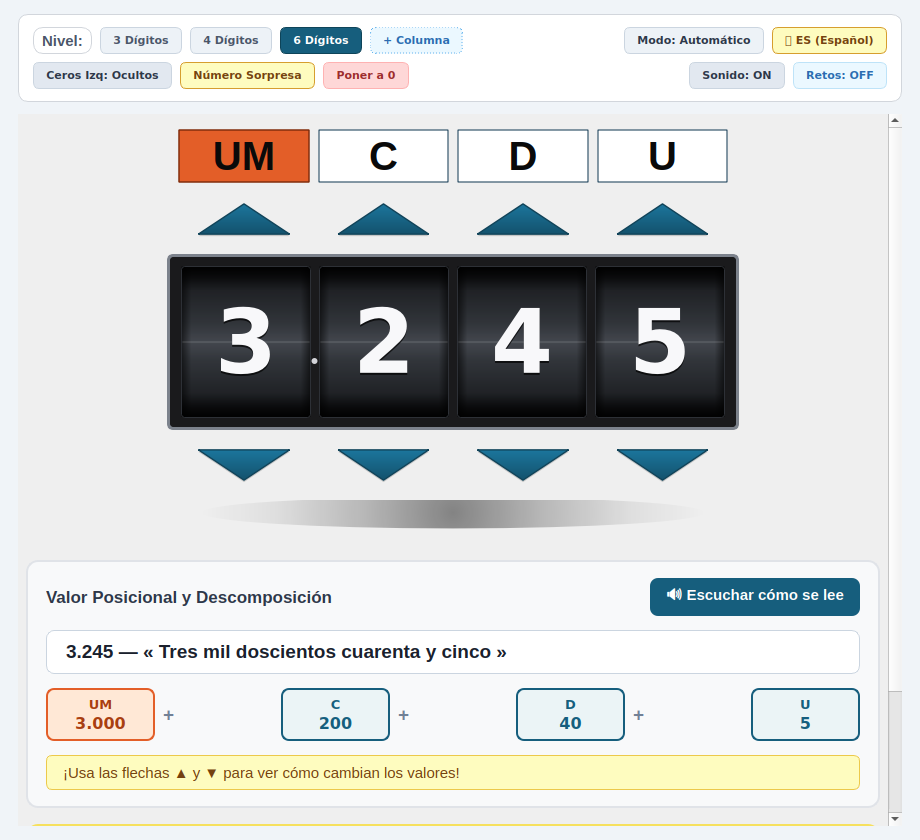
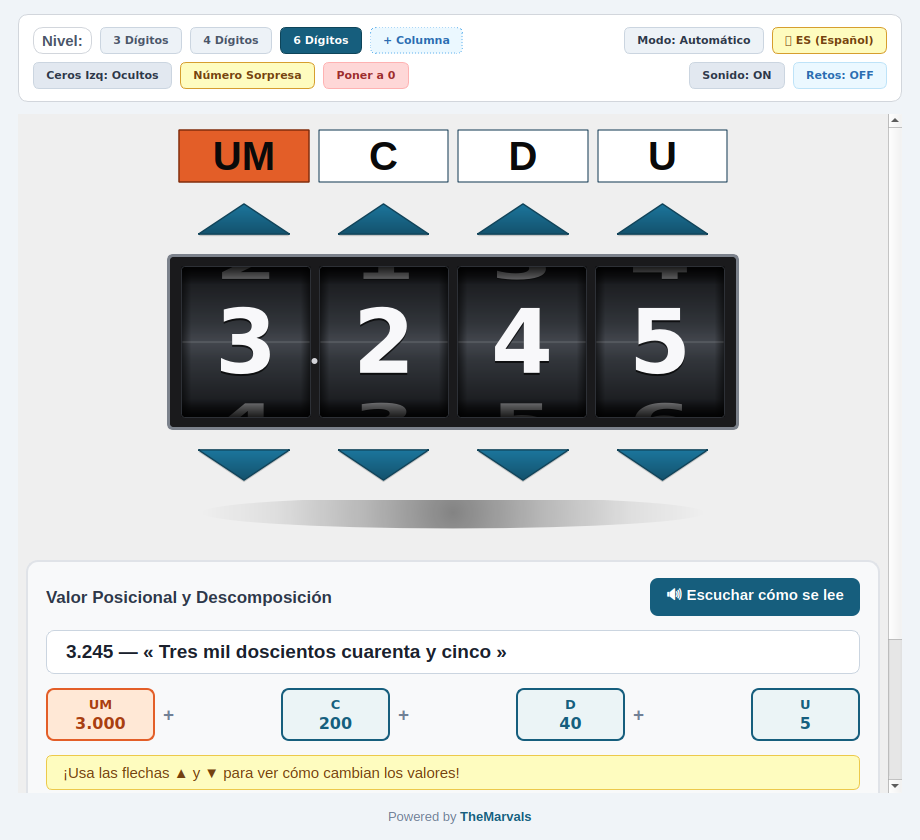
feat: visualizar numero anterior y siguiente curvados en el cilindro 3D al girar

diff --git a/ContadorDeUnidades.html b/ContadorDeUnidades.html
@@ -217,6 +217,21 @@
       cursor: pointer;
       box-shadow: inset -3px 0 6px rgba(0,0,0,0.6), inset 3px 0 6px rgba(0,0,0,0.6);
     }
+    .wheel::before {
+      content: "";
+      position: absolute;
+      inset: 0;
+      pointer-events: none;
+      z-index: 2;
+      background: linear-gradient(180deg,
+        rgba(5, 5, 8, 0.90) 0%,
+        rgba(15, 16, 20, 0.42) 20%,
+        rgba(0, 0, 0, 0) 34%,
+        rgba(0, 0, 0, 0) 66%,
+        rgba(15, 16, 20, 0.42) 80%,
+        rgba(5, 5, 8, 0.90) 100%
+      );
+    }
     .wheel::after {
       content: "";
       position: absolute;
@@ -224,8 +239,9 @@
       left: 3px;
       right: 3px;
       height: 1px;
-      background: rgba(255,255,255,0.18);
+      background: rgba(255,255,255,0.22);
       pointer-events: none;
+      z-index: 3;
     }
     .wheel-inner {
       width: 100%;
@@ -233,19 +249,20 @@
       flex-direction: column;
       align-items: center;
       transform: translateY(0);
-      transition: transform 0.24s cubic-bezier(0.25, 1, 0.5, 1);
+      transition: transform 0.28s cubic-bezier(0.25, 1, 0.5, 1);
     }
     .wheel-digit {
       width: 100%;
-      height: 154px;
+      height: 80px;
       flex-shrink: 0;
       display: flex;
       align-items: center;
       justify-content: center;
-      font-size: 64px;
+      font-size: 58px;
       font-weight: 900;
       color: #F8F8FA;
       text-shadow: 0 3px 6px rgba(0,0,0,0.8);
+      user-select: none;
     }
 
     /* Punto o Coma Separador de Miles */
@@ -686,11 +703,16 @@
     } catch(e) {}
   }
 
+  const WHEEL_HEIGHT = 154;
+  const SLOT_HEIGHT = 80;
+  const CENTER_OFFSET = (WHEEL_HEIGHT - SLOT_HEIGHT) / 2; // 37px
+  let wheelPositions = [20, 20, 20, 20, 20, 20];
+
   function initWheels() {
     for (let i = 0; i < 6; i++) {
       const inner = document.getElementById("inner_" + i);
       inner.innerHTML = "";
-      for (let cycle = 0; cycle < 3; cycle++) {
+      for (let cycle = 0; cycle < 5; cycle++) {
         for (let d = 0; d < 10; d++) {
           const div = document.createElement("div");
           div.className = "wheel-digit";
@@ -698,6 +720,10 @@
           inner.appendChild(div);
         }
       }
+      wheelPositions[i] = 20 + getDigit(i);
+      const targetY = CENTER_OFFSET - wheelPositions[i] * SLOT_HEIGHT;
+      inner.style.transition = "none";
+      inner.style.transform = `translateY(${targetY}px)`;
     }
   }
 
@@ -822,9 +848,40 @@
 
       const inner = document.getElementById("inner_" + i);
       const digit = currentDigits[i];
-      if (currentDigits[i] !== prevDigits[i] || !animated) {
-        const targetY = -(10 + digit) * 154;
+      const prevDigit = prevDigits[i];
+
+      if (digit !== prevDigit || !animated) {
+        if (!animated) {
+          wheelPositions[i] = 20 + digit;
+          inner.style.transition = "none";
+        } else {
+          let diff = digit - prevDigit;
+          if (diff === -9) diff = 1;      // Salto 9 -> 0
+          else if (diff === 9) diff = -1; // Salto 0 -> 9
+          else if (diff > 5) diff -= 10;  // Giro óptimo hacia atrás
+          else if (diff < -5) diff += 10; // Giro óptimo hacia adelante
+
+          wheelPositions[i] += diff;
+          inner.style.transition = "transform 0.28s cubic-bezier(0.25, 1, 0.5, 1)";
+        }
+
+        const targetY = CENTER_OFFSET - wheelPositions[i] * SLOT_HEIGHT;
         inner.style.transform = `translateY(${targetY}px)`;
+
+        // Recentrar al ciclo 2 sin animación si se aleja
+        if (wheelPositions[i] >= 35 || wheelPositions[i] <= 15) {
+          const slotIdx = i;
+          const currentD = digit;
+          setTimeout(() => {
+            wheelPositions[slotIdx] = 20 + currentD;
+            const resetY = CENTER_OFFSET - wheelPositions[slotIdx] * SLOT_HEIGHT;
+            const el = document.getElementById("inner_" + slotIdx);
+            if (el) {
+              el.style.transition = "none";
+              el.style.transform = `translateY(${resetY}px)`;
+            }
+          }, 300);
+        }
       }
     }
     prevDigits = [...currentDigits];

diff --git a/index.html b/index.html
@@ -217,6 +217,21 @@
       cursor: pointer;
       box-shadow: inset -3px 0 6px rgba(0,0,0,0.6), inset 3px 0 6px rgba(0,0,0,0.6);
     }
+    .wheel::before {
+      content: "";
+      position: absolute;
+      inset: 0;
+      pointer-events: none;
+      z-index: 2;
+      background: linear-gradient(180deg,
+        rgba(5, 5, 8, 0.90) 0%,
+        rgba(15, 16, 20, 0.42) 20%,
+        rgba(0, 0, 0, 0) 34%,
+        rgba(0, 0, 0, 0) 66%,
+        rgba(15, 16, 20, 0.42) 80%,
+        rgba(5, 5, 8, 0.90) 100%
+      );
+    }
     .wheel::after {
       content: "";
       position: absolute;
@@ -224,8 +239,9 @@
       left: 3px;
       right: 3px;
       height: 1px;
-      background: rgba(255,255,255,0.18);
+      background: rgba(255,255,255,0.22);
       pointer-events: none;
+      z-index: 3;
     }
     .wheel-inner {
       width: 100%;
@@ -233,19 +249,20 @@
       flex-direction: column;
       align-items: center;
       transform: translateY(0);
-      transition: transform 0.24s cubic-bezier(0.25, 1, 0.5, 1);
+      transition: transform 0.28s cubic-bezier(0.25, 1, 0.5, 1);
     }
     .wheel-digit {
       width: 100%;
-      height: 154px;
+      height: 80px;
       flex-shrink: 0;
       display: flex;
       align-items: center;
       justify-content: center;
-      font-size: 64px;
+      font-size: 58px;
       font-weight: 900;
       color: #F8F8FA;
       text-shadow: 0 3px 6px rgba(0,0,0,0.8);
+      user-select: none;
     }
 
     /* Punto o Coma Separador de Miles */
@@ -686,11 +703,16 @@
     } catch(e) {}
   }
 
+  const WHEEL_HEIGHT = 154;
+  const SLOT_HEIGHT = 80;
+  const CENTER_OFFSET = (WHEEL_HEIGHT - SLOT_HEIGHT) / 2; // 37px
+  let wheelPositions = [20, 20, 20, 20, 20, 20];
+
   function initWheels() {
     for (let i = 0; i < 6; i++) {
       const inner = document.getElementById("inner_" + i);
       inner.innerHTML = "";
-      for (let cycle = 0; cycle < 3; cycle++) {
+      for (let cycle = 0; cycle < 5; cycle++) {
         for (let d = 0; d < 10; d++) {
           const div = document.createElement("div");
           div.className = "wheel-digit";
@@ -698,6 +720,10 @@
           inner.appendChild(div);
         }
       }
+      wheelPositions[i] = 20 + getDigit(i);
+      const targetY = CENTER_OFFSET - wheelPositions[i] * SLOT_HEIGHT;
+      inner.style.transition = "none";
+      inner.style.transform = `translateY(${targetY}px)`;
     }
   }
 
@@ -822,9 +848,40 @@
 
       const inner = document.getElementById("inner_" + i);
       const digit = currentDigits[i];
-      if (currentDigits[i] !== prevDigits[i] || !animated) {
-        const targetY = -(10 + digit) * 154;
+      const prevDigit = prevDigits[i];
+
+      if (digit !== prevDigit || !animated) {
+        if (!animated) {
+          wheelPositions[i] = 20 + digit;
+          inner.style.transition = "none";
+        } else {
+          let diff = digit - prevDigit;
+          if (diff === -9) diff = 1;      // Salto 9 -> 0
+          else if (diff === 9) diff = -1; // Salto 0 -> 9
+          else if (diff > 5) diff -= 10;  // Giro óptimo hacia atrás
+          else if (diff < -5) diff += 10; // Giro óptimo hacia adelante
+
+          wheelPositions[i] += diff;
+          inner.style.transition = "transform 0.28s cubic-bezier(0.25, 1, 0.5, 1)";
+        }
+
+        const targetY = CENTER_OFFSET - wheelPositions[i] * SLOT_HEIGHT;
         inner.style.transform = `translateY(${targetY}px)`;
+
+        // Recentrar al ciclo 2 sin animación si se aleja
+        if (wheelPositions[i] >= 35 || wheelPositions[i] <= 15) {
+          const slotIdx = i;
+          const currentD = digit;
+          setTimeout(() => {
+            wheelPositions[slotIdx] = 20 + currentD;
+            const resetY = CENTER_OFFSET - wheelPositions[slotIdx] * SLOT_HEIGHT;
+            const el = document.getElementById("inner_" + slotIdx);
+            if (el) {
+              el.style.transition = "none";
+              el.style.transform = `translateY(${resetY}px)`;
+            }
+          }, 300);
+        }
       }
     }
     prevDigits = [...currentDigits];

diff --git a/src/widgets/odometer_wheel.py b/src/widgets/odometer_wheel.py
@@ -178,7 +178,7 @@ class OdometerWheel(QWidget):
         font.setFamilies(["Helvetica Neue", "Arial", "DejaVu Sans", "sans-serif"])
         painter.setFont(font)
 
-        slot_height = h * 0.58
+        slot_height = h * 0.52
 
         painter.save()
         painter.setClipRect(drum_rect)
@@ -192,10 +192,10 @@ class OdometerWheel(QWidget):
             if abs(norm_y) > 1.4:
                 continue
 
-            scale_y = math.cos(max(-1.45, min(1.45, norm_y * 1.05)))
-            scale_y = max(0.25, scale_y)
-            alpha = int(255 * (scale_y ** 1.8))
-            alpha = max(15, min(255, alpha))
+            scale_y = math.cos(max(-1.3, min(1.3, norm_y * 0.95)))
+            scale_y = max(0.40, scale_y)
+            alpha = int(255 * (scale_y ** 1.3))
+            alpha = max(65, min(255, alpha))
 
             painter.save()
             painter.translate(w * 0.5, curr_y)
@@ -214,18 +214,18 @@ class OdometerWheel(QWidget):
         painter.restore()
 
         # 5. Bisel de oclusión superior e inferior
-        top_shadow = QLinearGradient(0, 1, 0, 26)
-        top_shadow.setColorAt(0.0, QColor(0, 0, 0, 225))
+        top_shadow = QLinearGradient(0, 1, 0, 20)
+        top_shadow.setColorAt(0.0, QColor(0, 0, 0, 205))
         top_shadow.setColorAt(1.0, QColor(0, 0, 0, 0))
         painter.setPen(Qt.PenStyle.NoPen)
         painter.setBrush(QBrush(top_shadow))
-        painter.drawRect(QRectF(1.5, 1.5, w - 3, 24))
+        painter.drawRect(QRectF(1.5, 1.5, w - 3, 18))
 
-        bot_shadow = QLinearGradient(0, h - 26, 0, h - 1)
+        bot_shadow = QLinearGradient(0, h - 20, 0, h - 1)
         bot_shadow.setColorAt(0.0, QColor(0, 0, 0, 0))
-        bot_shadow.setColorAt(1.0, QColor(0, 0, 0, 225))
+        bot_shadow.setColorAt(1.0, QColor(0, 0, 0, 205))
         painter.setBrush(QBrush(bot_shadow))
-        painter.drawRect(QRectF(1.5, h - 26, w - 3, 24))
+        painter.drawRect(QRectF(1.5, h - 20, w - 3, 18))
 
         # 6. Borde exterior
         frame_pen = QPen(QColor(45, 48, 54), 1.0)
